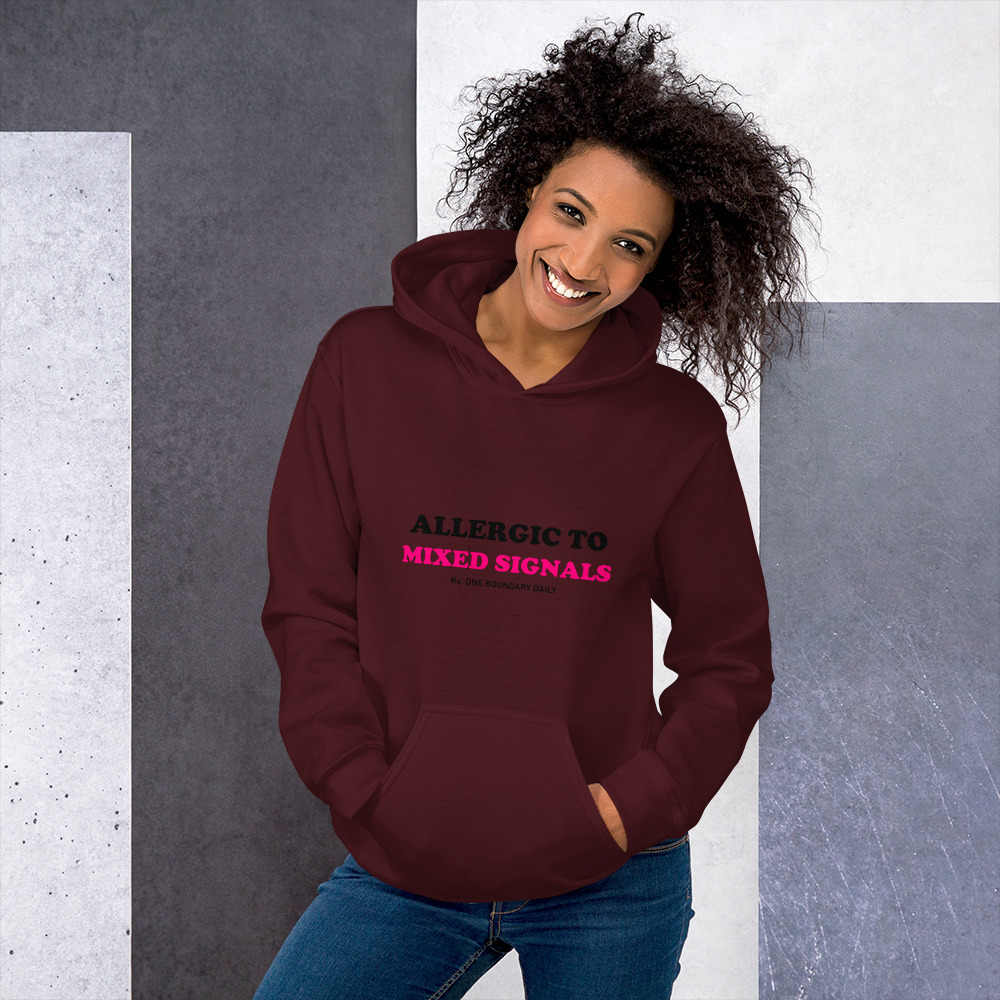
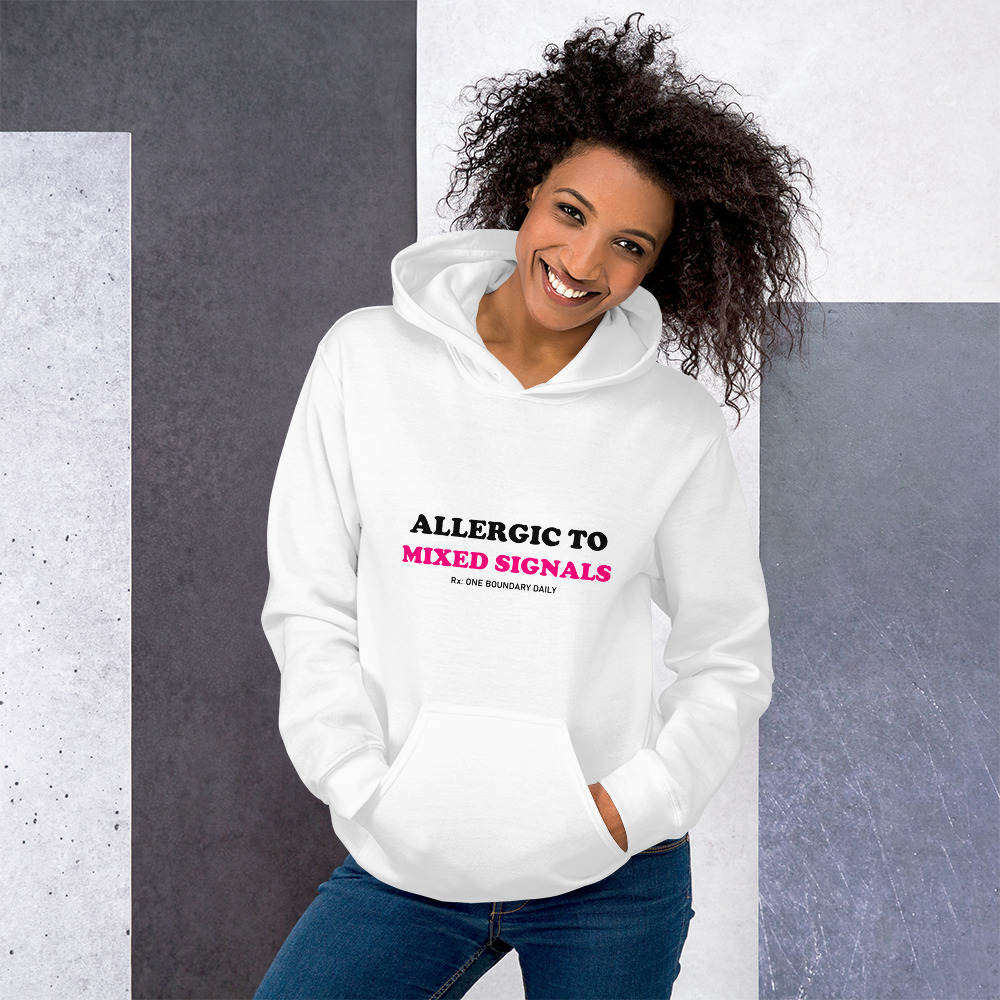
On-model mockups: fix maroon hoodies (now white) + add 3 more premium items
- Regenerated p2/p14 hoodies on WHITE garments for crisp dark-ink contrast
- Added on-model shots for Logo Tee (p35), Property Tee (p36), Hot Single
  Summer Tank (p46) — pipeline now uses each variant's own stored design so
  ink always matches garment color, and prefers a light garment
- Bucket hat (p54) skipped: no usable print file on Printful
- 11 premium items total now show real models
- gen-onmodel-mockups.js / swap-onmodel-imgs.js now accept pids as CLI args

Changed region(s): [[0.248, 0.217, 0.775, 0.93]]

diff --git a/scripts/gen-onmodel-mockups.js b/scripts/gen-onmodel-mockups.js
@@ -1,12 +1,11 @@
 // Generate on-model (lifestyle) mockups for premium apparel via Printful v2 API,
-// download them into mockups/, and record a pid -> file map.
-// Value tees (Gildan, flat-only) are intentionally excluded.
+// download them into mockups/, save as JPG. Prefers a WHITE/light garment and uses
+// each variant's OWN stored design (correct ink for that color). Reusable pipeline.
 const fs = require('fs');
 const path = require('path');
 const ROOT = path.resolve(__dirname, '..');
 const KEY = (fs.readFileSync(path.join(ROOT, '.env'), 'utf8').match(/^PRINTFUL_API_KEY=(.+)$/m) || [])[1].trim().replace(/['"]/g, '');
 const { PRODUCTS } = require(path.join(ROOT, 'lib', 'products.js'));
-const DESIGNS_DIR = path.join(ROOT, 'designs');
 
 const H = { Authorization: 'Bearer ' + KEY, 'Content-Type': 'application/json' };
 const sleep = (ms) => new Promise((r) => setTimeout(r, ms));
@@ -15,14 +14,17 @@ async function pf(url, opts = {}) {
   return r.json();
 }
 
-const TARGET = ['p2', 'p3', 'p9', 'p12', 'p13', 'p14', 'p25', 'p39'];
-const STYLE_PREF = ["Women's Lifestyle", "Women's", "Men's Lifestyle", "Flat Lifestyle", "Men's"];
+// Pass target pids as CLI args, else default set.
+const TARGET = process.argv.slice(2).length ? process.argv.slice(2) : ['p2', 'p14', 'p35', 'p36', 'p46', 'p54'];
+const STYLE_PREF = ["Women's Lifestyle", "Women's", "Men's Lifestyle", "Flat Lifestyle", "Men's", "On model", "Lifestyle"];
 
-function designUrlFor(pid) {
-  const n = pid.replace('p', '');
-  const files = fs.readdirSync(DESIGNS_DIR).filter((f) => new RegExp('^p' + n + '[-_.]').test(f) && /\.png$/i.test(f));
-  const pick = files.find((f) => /light/i.test(f)) || files.find((f) => /white/i.test(f)) || files.find((f) => !/dark|pink/i.test(f)) || files[0];
-  return pick ? 'https://adamnoteve.com/designs/' + pick : null;
+// lower = preferred (light garments so dark-ink designs read)
+function colorRank(name) {
+  const n = (name || '').toLowerCase();
+  if (/white/.test(n)) return 0;
+  if (/(natural|cream|ivory|bone|vintage white|sand|oatmeal|almond)/.test(n)) return 1;
+  if (/(ash|heather|light|dusty|pale|mint|sky|baby|lavender|powder)/.test(n)) return 2;
+  return 5;
 }
 
 (async () => {
@@ -34,22 +36,26 @@ function designUrlFor(pid) {
     try {
       const prod = PRODUCTS.find((x) => x.id === pid);
       if (!prod) { results.push({ pid, status: 'no-site-product' }); continue; }
-      const design = designUrlFor(pid);
-      if (!design) { results.push({ pid, name: prod.name, status: 'no-design-file' }); continue; }
       const base = prod.name.toLowerCase();
-      const m = sync.find((s) => s.name.toLowerCase().replace(/\s*\(\d+\/\d+\)\s*$/, '') === base) || sync.find((s) => s.name.toLowerCase().startsWith(base));
-      if (!m) { results.push({ pid, name: prod.name, status: 'no-sync-match' }); continue; }
-      const det = await pf('/store/products/' + m.id);
-      const vs = (det.result && det.result.sync_variants) || [];
-      if (!vs.length) { results.push({ pid, name: prod.name, status: 'no-variants' }); continue; }
-      const cpid = vs[0].product.product_id;
-      const wv = vs.find((v) => /white/i.test(v.name)) || vs.find((v) => /(heather|ash|cream|natural|light)/i.test(v.name)) || vs[0];
-      const st = await pf('/v2/catalog-products/' + cpid + '/mockup-styles');
+      const matches = sync.filter((s) => { const sn = s.name.toLowerCase().replace(/\s*\(\d+\/\d+\)\s*$/, ''); return sn === base || sn.startsWith(base); });
+      if (!matches.length) { results.push({ pid, name: prod.name, status: 'no-sync-match' }); continue; }
+      let variants = [];
+      for (const sm of matches) {
+        const det = await pf('/store/products/' + sm.id);
+        (det.result && det.result.sync_variants || []).forEach((v) => {
+          const df = (v.files || []).find((f) => f.type === 'default');
+          if (df && df.url) variants.push({ name: v.name, variant_id: v.variant_id, cpid: v.product.product_id, design: df.url });
+        });
+      }
+      if (!variants.length) { results.push({ pid, name: prod.name, status: 'no-variants' }); continue; }
+      variants.sort((a, b) => colorRank(a.name) - colorRank(b.name));
+      const best = variants[0];
+      const st = await pf('/v2/catalog-products/' + best.cpid + '/mockup-styles');
       const groups = st.data || [];
       let chosen = null, chosenCat = null;
       outer: for (const pref of STYLE_PREF) for (const g of groups) if (g.placement === 'front') for (const s of (g.mockup_styles || [])) if (s.view_name === 'Front' && s.category_name === pref) { chosen = s.id; chosenCat = pref; break outer; }
-      if (!chosen) { results.push({ pid, name: prod.name, cpid, status: 'no-onmodel-style' }); continue; }
-      const body = { format: 'jpg', products: [{ source: 'catalog', mockup_style_ids: [chosen], catalog_product_id: cpid, catalog_variant_ids: [wv.variant_id], placements: [{ placement: 'front', technique: 'dtg', layers: [{ type: 'file', url: design }] }] }] };
+      if (!chosen) { results.push({ pid, name: prod.name, cpid: best.cpid, status: 'no-onmodel-style' }); continue; }
+      const body = { format: 'jpg', products: [{ source: 'catalog', mockup_style_ids: [chosen], catalog_product_id: best.cpid, catalog_variant_ids: [best.variant_id], placements: [{ placement: 'front', technique: 'dtg', layers: [{ type: 'file', url: best.design }] }] }] };
       const task = await pf('/v2/mockup-tasks', { method: 'POST', body: JSON.stringify(body) });
       const tid = task.data && task.data[0] && task.data[0].id;
       if (!tid) { results.push({ pid, name: prod.name, status: 'task-create-fail', err: JSON.stringify(task).slice(0, 200) }); continue; }
@@ -65,11 +71,10 @@ function designUrlFor(pid) {
       const buf = Buffer.from(await (await fetch(url)).arrayBuffer());
       const out = 'mockups/' + pid + '-model.jpg';
       fs.writeFileSync(path.join(ROOT, out), buf);
-      results.push({ pid, name: prod.name, style: chosenCat, variant: wv.name, file: out, bytes: buf.length, status: 'ok' });
-      console.log('OK', pid, '|', prod.name, '|', chosenCat, '|', wv.name, '->', out, buf.length + 'b');
+      results.push({ pid, name: prod.name, style: chosenCat, variant: best.name, file: out, bytes: buf.length, status: 'ok' });
+      console.log('OK', pid, '|', prod.name, '|', chosenCat, '|', best.name, '->', out, buf.length + 'b');
     } catch (e) { results.push({ pid, status: 'exception', err: String(e).slice(0, 200) }); console.log('EXC', pid, e.message); }
   }
-  fs.writeFileSync(path.join(ROOT, 'scratch-onmodel-results.json'), JSON.stringify(results, null, 2));
   console.log('\n=== SUMMARY ===');
   results.forEach((r) => console.log(String(r.status).padEnd(18), r.pid, '|', r.name || '', r.file ? '-> ' + r.file : (r.fail || r.err || '')));
 })();

diff --git a/lib/products.js b/lib/products.js
@@ -1035,7 +1035,7 @@
       category: 'apparel',
       tag: 'BRAND',
       sizes: ['S', 'M', 'L', 'XL', '2XL'],
-      img: 'https://files.cdn.printful.com/files/af0/af0e9e27af4443fa1049fdaf59f63646_preview.png',
+      img: 'https://adamnoteve.com/mockups/p35-model.jpg',
       colors: ['Black', 'Navy', 'Maroon', 'Forest', 'Army', 'Asphalt', 'Oxblood Black', 'Dark Grey Heather'],
       imgByColor: {
         'Black': 'https://files.cdn.printful.com/files/af0/af0e9e27af4443fa1049fdaf59f63646_preview.png',
@@ -1064,7 +1064,7 @@
       category: 'apparel',
       tag: 'BRAND',
       sizes: ['S', 'M', 'L', 'XL', '2XL'],
-      img: 'https://files.cdn.printful.com/files/cfa/cfa661bdd619ad2d9c73cfced537dcdf_preview.png',
+      img: 'https://adamnoteve.com/mockups/p36-model.jpg',
       colors: ['Black', 'Navy', 'Maroon', 'Forest', 'Army', 'Asphalt', 'Oxblood Black', 'Dark Grey Heather'],
       imgByColor: {
         'Black': 'https://files.cdn.printful.com/files/cfa/cfa661bdd619ad2d9c73cfced537dcdf_preview.png',
@@ -1316,7 +1316,7 @@
       tag: 'TREND',
       sizes: ['S', 'M', 'L', 'XL', '2XL'],
       featuredColor: 'Navy',
-      img: 'https://files.cdn.printful.com/files/d80/d80eb993f63d64b5445fe8a1dd214723_preview.png',
+      img: 'https://adamnoteve.com/mockups/p46-model.jpg',
       colors: ['Black', 'Navy', 'White'],
       imgByColor: {
         'Black': 'https://files.cdn.printful.com/files/686/6865c98f82adbdf006e09972dc83b6ba_preview.png',

diff --git a/scripts/swap-onmodel-imgs.js b/scripts/swap-onmodel-imgs.js
@@ -2,7 +2,7 @@ const fs = require('fs');
 const path = require('path');
 const file = path.resolve(__dirname, '..', 'lib', 'products.js');
 let src = fs.readFileSync(file, 'utf8');
-const PIDS = ['p2', 'p3', 'p9', 'p12', 'p13', 'p14', 'p25', 'p39'];
+const PIDS = process.argv.slice(2).length ? process.argv.slice(2) : ['p2', 'p3', 'p9', 'p12', 'p13', 'p14', 'p25', 'p39'];
 let changed = 0;
 for (const pid of PIDS) {
   const idIdx = src.search(new RegExp("id:\\s*'" + pid + "'"));